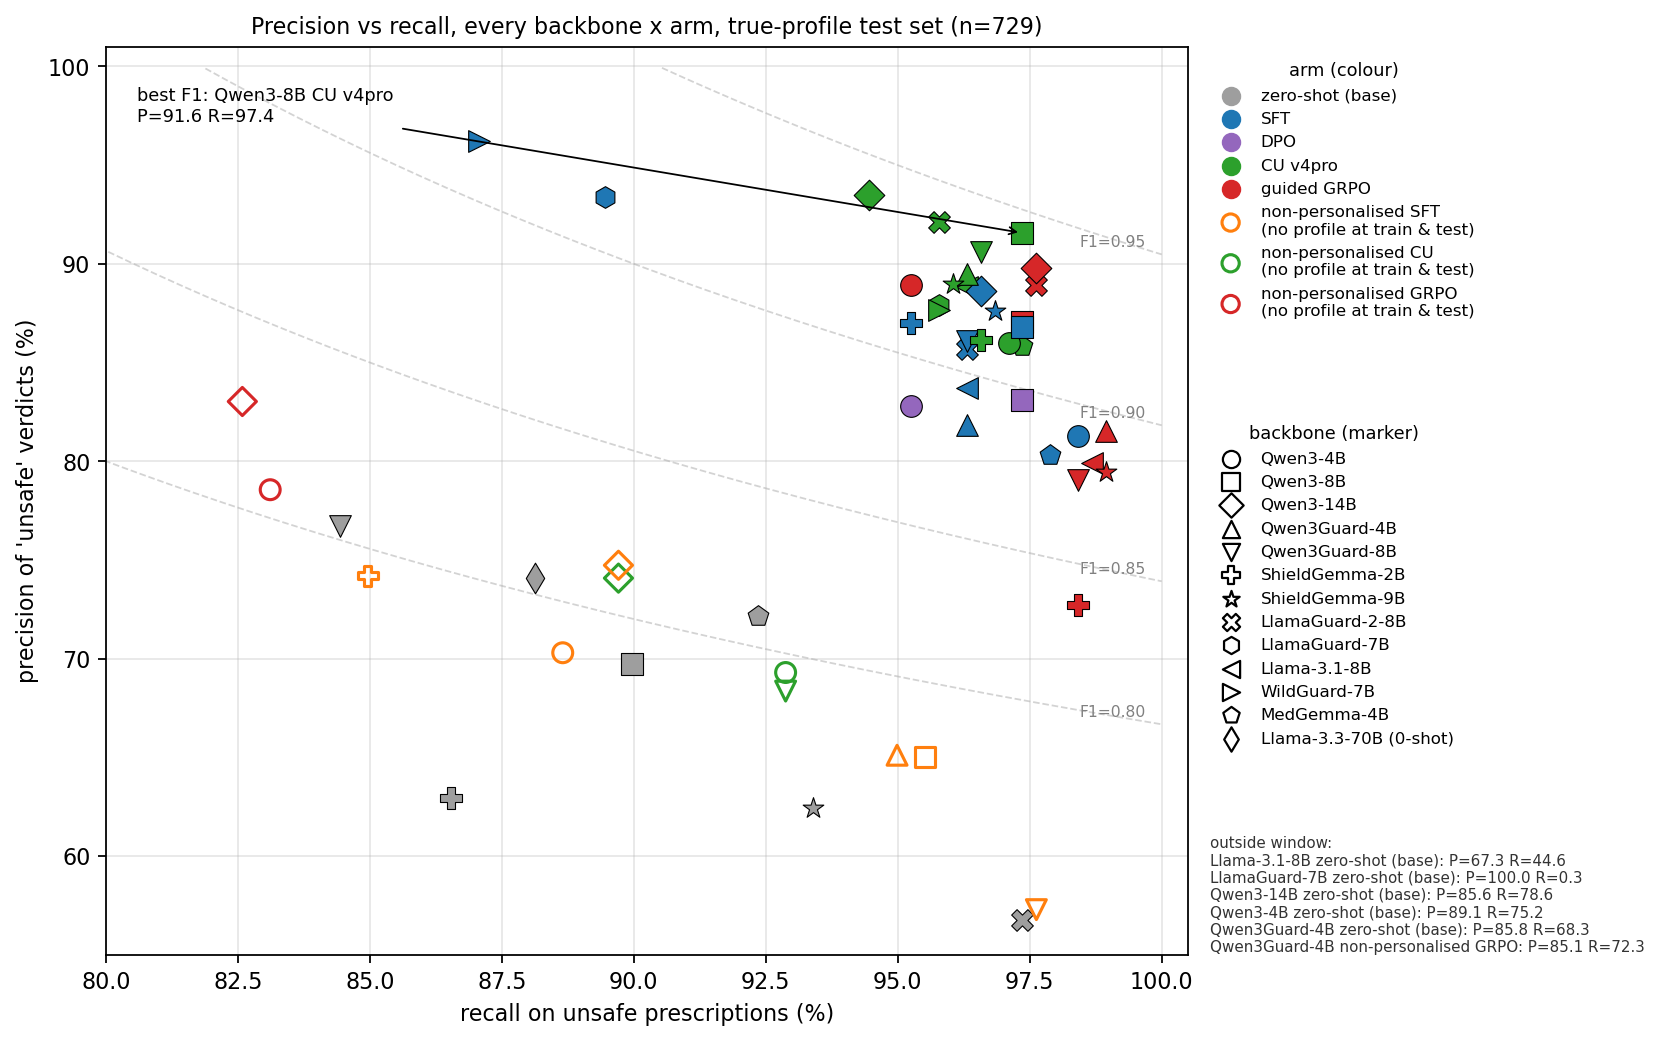
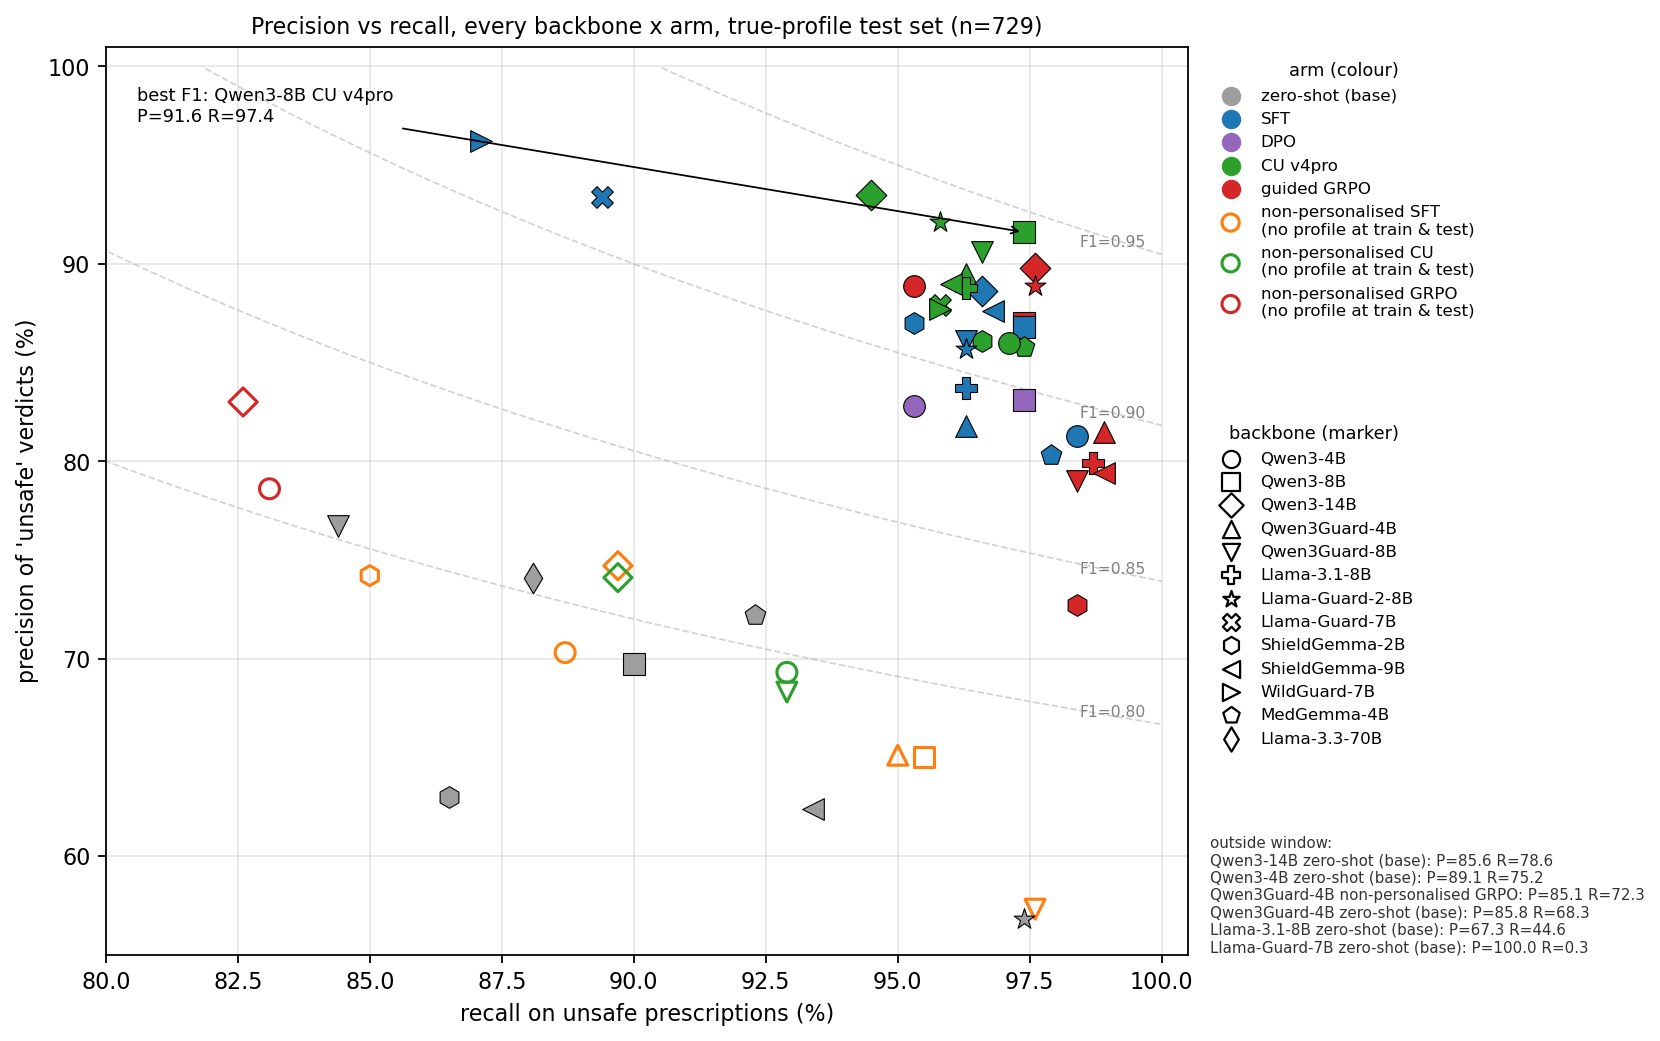
Align the precision-recall figure backbone list and markers with the operating-points figure.

diff --git a/Claude/Ablation/precision_recall_plot.py b/Claude/Ablation/precision_recall_plot.py
@@ -29,21 +29,25 @@ D = os.path.join(ROOT, "Claude/DPO/outputs/partial_miss_audited")
 B = os.path.join(ROOT, "Claude/Base_Models/outputs_blind_v2")
 
 # model key -> (display name, SFT run dir, CU ontop dir, GRPO run prefix, DPO dir, base dir)
+# Order, display names, and markers match fig_operating_points_all.py (Figure 2).
 MODELS = {
-    "qwen3-4b":      ("Qwen3-4B",          "Qwen3-4B-Instruct",  "ontop",              "legacy_v1",                "qwen3-4b", "Qwen3-4B-Instruct"),
-    "qwen3-8b":      ("Qwen3-8B",          "Qwen3-8B-Instruct",  "ontop_8b",           "legacy_v1-qwen3-8b",       "qwen3-8b", None),
-    "qwen3-14b":     ("Qwen3-14B",         "Qwen3-14B-Instruct", "ontop_14b",          "legacy_v1-qwen3-14b",      None,       None),
-    "qwen3guard-4b": ("Qwen3Guard-4B",     "Qwen3Guard-Gen-4B",  "ontop_guard",        "legacy_v1-qwen3guard-4b",  None,       "Qwen3Guard-Gen-4B"),
-    "qwen3guard-8b": ("Qwen3Guard-8B",     "Qwen3Guard-Gen-8B",  "ontop_guard8b",      "legacy_v1-qwen3guard-8b",  None,       None),
-    "shieldgemma-2b": ("ShieldGemma-2B",   "ShieldGemma-2B",     "ontop_shieldgemma2b", "legacy_v1-shieldgemma-2b", None,      None),
-    "shieldgemma-9b": ("ShieldGemma-9B",   "ShieldGemma-9B",     "ontop_shieldgemma9b", "legacy_v1-shieldgemma-9b", None,      None),
-    "llamaguard2-8b": ("LlamaGuard-2-8B",  "Llama-Guard-2-8B",   "ontop_llamaguard2",  "legacy_v1-llamaguard2-8b", None,       None),
-    "llamaguard-7b": ("LlamaGuard-7B",     "LlamaGuard-7b",      "ontop_llamaguard7b", None,                       None,       None),
-    "llama31-8b":    ("Llama-3.1-8B",      "Llama-3.1-8B",       "ontop_llama31",      "legacy_v1-llama31-8b",     None,       None),
-    "wildguard-7b":  ("WildGuard-7B",      "WildGuard-7B",       "ontop_wildguard7b",  "legacy_v1-wildguard-7b",   None,       None),
-    "medgemma-4b":   ("MedGemma-4B",       "MedGemma-4B-it",     "ontop_medgemma4b",   "legacy_v1-medgemma-4b",    None,       None),
-    "llama3.3-70b":  ("Llama-3.3-70B (0-shot)", None,            None,                 None,                       None,       None),
+    "qwen3-4b":       ("Qwen3-4B",          "Qwen3-4B-Instruct",  "ontop",               "legacy_v1",                 "qwen3-4b", "Qwen3-4B-Instruct"),
+    "qwen3-8b":       ("Qwen3-8B",          "Qwen3-8B-Instruct",  "ontop_8b",            "legacy_v1-qwen3-8b",        "qwen3-8b", None),
+    "qwen3-14b":      ("Qwen3-14B",         "Qwen3-14B-Instruct", "ontop_14b",           "legacy_v1-qwen3-14b",       None,       None),
+    "qwen3guard-4b":  ("Qwen3Guard-4B",     "Qwen3Guard-Gen-4B",  "ontop_guard",         "legacy_v1-qwen3guard-4b",   None,       "Qwen3Guard-Gen-4B"),
+    "qwen3guard-8b":  ("Qwen3Guard-8B",     "Qwen3Guard-Gen-8B",  "ontop_guard8b",       "legacy_v1-qwen3guard-8b",   None,       None),
+    "llama31-8b":     ("Llama-3.1-8B",      "Llama-3.1-8B",       "ontop_llama31",       "legacy_v1-llama31-8b",      None,       None),
+    "llamaguard2-8b": ("Llama-Guard-2-8B",  "Llama-Guard-2-8B",   "ontop_llamaguard2",   "legacy_v1-llamaguard2-8b",  None,       None),
+    "llamaguard-7b":  ("Llama-Guard-7B",    "LlamaGuard-7b",      "ontop_llamaguard7b",  None,                        None,       None),
+    "shieldgemma-2b": ("ShieldGemma-2B",    "ShieldGemma-2B",     "ontop_shieldgemma2b", "legacy_v1-shieldgemma-2b",  None,       None),
+    "shieldgemma-9b": ("ShieldGemma-9B",    "ShieldGemma-9B",     "ontop_shieldgemma9b", "legacy_v1-shieldgemma-9b",  None,       None),
+    "wildguard-7b":   ("WildGuard-7B",      "WildGuard-7B",       "ontop_wildguard7b",   "legacy_v1-wildguard-7b",    None,       None),
+    "medgemma-4b":    ("MedGemma-4B",       "MedGemma-4B-it",     "ontop_medgemma4b",    "legacy_v1-medgemma-4b",     None,       None),
+    "llama3.3-70b":   ("Llama-3.3-70B",     None,                 None,                  None,                        None,       None),
 }
+# Same marker string as plot_operating_points_all.MARKERS, keyed by backbone so a
+# missing run cannot shift the shapes of the models that remain.
+MARKERS = dict(zip(MODELS, "osD^vP*Xh<>pd"))
 NOPROFILE_SFT = {"qwen3-4b": "Qwen3-4B-noprofile", "qwen3-8b": "Qwen3-8B-noprofile", "qwen3-14b": "Qwen3-14B-noprofile",
                  "qwen3guard-4b": "Qwen3Guard-4B-noprofile", "qwen3guard-8b": "Qwen3Guard-8B-noprofile",
                  "shieldgemma-2b": "ShieldGemma-2B-noprofile"}
@@ -90,8 +94,10 @@ def find_runs():
             if p:
                 runs[(key, arm)] = p
         for arm in ("base", "sft", "cu", "grpo"):
-            if (key, arm) in T1:
+            if (key, arm) in T1 and os.path.exists(T1[(key, arm)]):
                 runs[(key, arm)] = T1[(key, arm)]
+            elif (key, arm) in T1:
+                print(f"  table-1 file missing, keeping fallback if any: {key}/{arm}")
         if key in NOPROFILE_SFT:
             p = first(f"{S}/{NOPROFILE_SFT[key]}/test_predictions_sft.jsonl")
             if p:
@@ -115,13 +121,40 @@ def pr(gv, pv):
                 acc=(tp + tn) / len(gv), bal_acc=0.5 * (rec + tn / max(fp + tn, 1)))
 
 
-def main():
-    ap = argparse.ArgumentParser()
-    ap.add_argument("--out-dir", default=OUT_DIR)
-    args = ap.parse_args()
-    import matplotlib; matplotlib.use("Agg")
-    import matplotlib.pyplot as plt
+def _norm_label(text):
+    return " ".join(text.replace("\n", " ").split())
 
+
+def rows_from_table(path):
+    """Replay the published precision/recall table so a redraw keeps those points."""
+    import re
+    text = open(path).read().split("## Best")[0]
+    name_to_key = {_norm_label(spec[0]): key for key, spec in MODELS.items()}
+    name_to_key.update({
+        "LlamaGuard-2-8B": "llamaguard2-8b",
+        "LlamaGuard-7B": "llamaguard-7b",
+        "Llama-3.3-70B (0-shot)": "llama3.3-70b",
+    })
+    label_to_arm = {_norm_label(label): arm for arm, label in ARM_LABEL.items()}
+    header = re.search(r"\(n=(\d+)\)", text)
+    n = int(header.group(1)) if header else 729
+    rows = []
+    for m in re.finditer(
+        r"\|\s*\d+\s*\|\s*([^|]+?)\s*\|\s*([^|]+?)\s*\|\s*([0-9.]+)\s*\|\s*([0-9.]+)\s*\|\s*\*\*([0-9.]+)\*\*\s*\|"
+        r"\s*([0-9.]+)\s*\|\s*([0-9.]+)\s*\|\s*([0-9.]+)\s*\|\s*([0-9.]+)\s*\|\s*(\d+)\s*\|\s*(\w+)\s*\|\s*`([^`]+)`\s*\|",
+        text,
+    ):
+        backbone, arm_label, prec, rec, f1, fpr, acc, bal, macro, unparsed, engine, rel = m.groups()
+        key = name_to_key[_norm_label(backbone)]
+        arm = label_to_arm[_norm_label(arm_label)]
+        metrics = dict(precision=float(prec) / 100, recall=float(rec) / 100, f1=float(f1) / 100,
+                       fpr=float(fpr) / 100, acc=float(acc) / 100, bal_acc=float(bal) / 100,
+                       macro_f1=float(macro) / 100, unparsed=int(unparsed), engine=engine)
+        rows.append((key, arm, metrics, rel))
+    return rows, n
+
+
+def score_runs():
     gold = load_gold("true"); n_full = len(gold)
     gv = np.array([g[0] for g in gold]); gc = np.array([[g[1][c] for c in RISK_CATEGORIES] for g in gold])
     import recompute_729 as R
@@ -133,6 +166,8 @@ def main():
     rows = []
     from audit_729 import load_any
     for (key, arm), p in sorted(runs.items()):
+        if not p or not os.path.exists(p):
+            print(f"  skip {key}/{arm}: missing file ({p})"); continue
         pv, pc, parsed, _, n_rows = load_any(p, RISK_CATEGORIES)
         if n_rows < n_full:
             print(f"  skip {key}/{arm}: {n_rows}/{n_full} rows ({p})"); continue
@@ -145,10 +180,30 @@ def main():
         m["macro_f1"] = f1c[present].mean(); m["unparsed"] = int((~parsed[idx]).sum())
         m["engine"] = "vLLM" if p.startswith(A) else "HF"
         rows.append((key, arm, m, os.path.relpath(p, ROOT)))
+    return rows, n
+
+
+def main():
+    ap = argparse.ArgumentParser()
+    ap.add_argument("--out-dir", default=OUT_DIR)
+    ap.add_argument("--from-table", metavar="MD",
+                    help="redraw the figure from a saved precision_recall_table.md instead of rescoring")
+    args = ap.parse_args()
+    import matplotlib; matplotlib.use("Agg")
+    import matplotlib.pyplot as plt
+
+    if args.from_table:
+        rows, n = rows_from_table(args.from_table)
+        print(f"redrawing {len(rows)} published points (n={n}) from {args.from_table}")
+    else:
+        rows, n = score_runs()
 
     # ------------------------------------------------------------ figure
     models = [k for k in MODELS if any(r[0] == k for r in rows)]
-    markers = dict(zip(models, "osD^vP*Xh<>pd8"))
+    missing = [MODELS[k][0] for k in MODELS if k not in models]
+    if missing:
+        print("WARNING: backbones with no plotted point:", ", ".join(missing))
+    print("legend order:", ", ".join(f"{MODELS[k][0]}={MARKERS[k]}" for k in models))
     XLIM, YLIM = (80, 100.5), (55, 101)
     fig, ax = plt.subplots(figsize=(10.5, 6.6))
 
@@ -162,7 +217,7 @@ def main():
                 a.text(100 * rr[ok][-1] - 0.3, 100 * pp[ok][-1] + 0.4, f"F1={f:.2f}", fontsize=7, color="grey", ha="right")
         for key, arm, m, _ in pts:
             hollow = arm in NP_ARMS
-            a.scatter(100 * m["recall"], 100 * m["precision"], s=size * (95 if not hollow else 80), marker=markers[key],
+            a.scatter(100 * m["recall"], 100 * m["precision"], s=size * (95 if not hollow else 80), marker=MARKERS[key],
                       facecolor="none" if hollow else ARM_COL[arm], edgecolor=ARM_COL[arm] if hollow else "k",
                       linewidth=1.4 if hollow else 0.5, zorder=3)
 
@@ -184,7 +239,7 @@ def main():
             h1.append(ax.scatter([], [], facecolor="none", edgecolor=ARM_COL[a], linewidth=1.4, s=60, label=ARM_LABEL[a]))
     leg1 = ax.legend(handles=h1, fontsize=7.5, loc="upper left", bbox_to_anchor=(1.01, 1.0), title="arm (colour)", title_fontsize=8, frameon=False)
     ax.add_artist(leg1)
-    h2 = [ax.scatter([], [], marker=markers[k], color="w", edgecolor="k", s=60, label=MODELS[k][0]) for k in models]
+    h2 = [ax.scatter([], [], marker=MARKERS[k], color="w", edgecolor="k", s=60, label=MODELS[k][0]) for k in models]
     ax.legend(handles=h2, fontsize=7.5, loc="upper left", bbox_to_anchor=(1.01, 0.60), title="backbone (marker)", title_fontsize=8, frameon=False)
     ax.set_xlabel("recall on unsafe prescriptions (%)"); ax.set_ylabel("precision of 'unsafe' verdicts (%)")
     ax.set_xlim(*XLIM); ax.set_ylim(*YLIM); ax.grid(alpha=0.3)

diff --git a/Claude/Ablation/report/precision_recall_table.md b/Claude/Ablation/report/precision_recall_table.md
@@ -4,10 +4,10 @@
 |---|---|---|---|---|---|---|---|---|---|---|---|---|
 | 1 | Qwen3-8B | CU v4pro | 91.6 | 97.4 | **94.4** | 9.7 | 94.0 | 93.8 | 69.8 | 0 | HF | `context_unrolling/outputs/ontop_8b/sft+1ep_unrolled_v4pro/test_predictions.jsonl` |
 | 2 | Qwen3-14B | CU v4pro | 93.5 | 94.5 | **94.0** | 7.1 | 93.7 | 93.7 | 72.0 | 7 | HF | `context_unrolling/outputs/ontop_14b/sft+1ep_unrolled_v4pro/test_predictions.jsonl` |
-| 3 | LlamaGuard-2-8B | CU v4pro | 92.1 | 95.8 | **93.9** | 8.9 | 93.6 | 93.5 | 68.3 | 0 | HF | `context_unrolling/outputs/ontop_llamaguard2/sft+1ep_unrolled_v4pro/test_predictions.jsonl` |
+| 3 | Llama-Guard-2-8B | CU v4pro | 92.1 | 95.8 | **93.9** | 8.9 | 93.6 | 93.5 | 68.3 | 0 | HF | `context_unrolling/outputs/ontop_llamaguard2/sft+1ep_unrolled_v4pro/test_predictions.jsonl` |
 | 4 | Qwen3-14B | guided GRPO | 89.8 | 97.6 | **93.6** | 12.0 | 93.0 | 92.8 | 69.0 | 0 | HF | `Claude/GRPO/outputs/legacy_v1-qwen3-14b/grpo-guided-v2/final/eval/test_predictions.jsonl` |
 | 5 | Qwen3Guard-8B | CU v4pro | 90.6 | 96.6 | **93.5** | 10.9 | 93.0 | 92.9 | 69.4 | 0 | HF | `context_unrolling/outputs/ontop_guard8b/sft+1ep_unrolled_v4pro/test_predictions.jsonl` |
-| 6 | LlamaGuard-2-8B | guided GRPO | 88.9 | 97.6 | **93.1** | 13.1 | 92.5 | 92.2 | 68.4 | 0 | HF | `Claude/GRPO/outputs/legacy_v1-llamaguard2-8b/grpo-guided-v2/final/eval/test_predictions.jsonl` |
+| 6 | Llama-Guard-2-8B | guided GRPO | 88.9 | 97.6 | **93.1** | 13.1 | 92.5 | 92.2 | 68.4 | 0 | HF | `Claude/GRPO/outputs/legacy_v1-llamaguard2-8b/grpo-guided-v2/final/eval/test_predictions.jsonl` |
 | 7 | Qwen3Guard-4B | CU v4pro | 89.5 | 96.3 | **92.8** | 12.3 | 92.2 | 92.0 | 70.0 | 0 | HF | `context_unrolling/outputs/ontop_guard/sft+1ep_unrolled_v4pro/test_predictions.jsonl` |
 | 8 | Qwen3-14B | SFT | 88.6 | 96.6 | **92.4** | 13.4 | 91.8 | 91.6 | 67.5 | 0 | HF | `Claude/SFT/new_outputs/Qwen3-14B-Instruct/test_predictions_w_schema.jsonl` |
 | 9 | Llama-3.1-8B | CU v4pro | 88.8 | 96.3 | **92.4** | 13.1 | 91.8 | 91.6 | 64.7 | 0 | HF | `context_unrolling/outputs/ontop_llama31/sft+1ep_unrolled_v4pro/test_predictions.jsonl` |
@@ -16,16 +16,16 @@
 | 12 | Qwen3-4B | guided GRPO | 88.9 | 95.3 | **92.0** | 12.9 | 91.4 | 91.2 | 69.1 | 3 | HF | `Claude/GRPO/outputs/legacy_v1/grpo-guided-v2/final/eval/test_predictions.jsonl` |
 | 13 | Qwen3-8B | guided GRPO | 87.0 | 97.4 | **91.9** | 15.7 | 91.1 | 90.8 | 68.4 | 0 | HF | `Claude/GRPO/outputs/legacy_v1-qwen3-8b/grpo-guided-v2/final/eval/test_predictions.jsonl` |
 | 14 | Qwen3-8B | SFT | 86.8 | 97.4 | **91.8** | 16.0 | 90.9 | 90.7 | 67.6 | 0 | HF | `Claude/SFT/new_outputs/Qwen3-8B-Instruct/test_predictions_w_schema.jsonl` |
-| 15 | LlamaGuard-7B | CU v4pro | 87.9 | 95.8 | **91.7** | 14.3 | 90.9 | 90.7 | 66.4 | 1 | HF | `context_unrolling/outputs/ontop_llamaguard7b/sft+1ep_unrolled_v4pro/test_predictions.jsonl` |
+| 15 | Llama-Guard-7B | CU v4pro | 87.9 | 95.8 | **91.7** | 14.3 | 90.9 | 90.7 | 66.4 | 1 | HF | `context_unrolling/outputs/ontop_llamaguard7b/sft+1ep_unrolled_v4pro/test_predictions.jsonl` |
 | 16 | WildGuard-7B | CU v4pro | 87.7 | 95.8 | **91.6** | 14.6 | 90.8 | 90.6 | 65.9 | 0 | HF | `context_unrolling/outputs/ontop_wildguard7b/sft+1ep_unrolled_v4pro/test_predictions.jsonl` |
 | 17 | WildGuard-7B | SFT | 96.2 | 87.1 | **91.4** | 3.7 | 91.5 | 91.7 | 71.6 | 0 | HF | `Claude/SFT/new_outputs/WildGuard-7B/test_predictions_sft.jsonl` |
-| 18 | LlamaGuard-7B | SFT | 93.4 | 89.4 | **91.4** | 6.9 | 91.2 | 91.3 | 64.5 | 0 | HF | `context_unrolling/outputs/ontop_llamaguard7b/sft_baseline/test_predictions.jsonl` |
+| 18 | Llama-Guard-7B | SFT | 93.4 | 89.4 | **91.4** | 6.9 | 91.2 | 91.3 | 64.5 | 0 | HF | `context_unrolling/outputs/ontop_llamaguard7b/sft_baseline/test_predictions.jsonl` |
 | 19 | MedGemma-4B | CU v4pro | 85.8 | 97.4 | **91.2** | 17.4 | 90.3 | 90.0 | 69.2 | 0 | HF | `context_unrolling/outputs/ontop_medgemma4b/sft+1ep_unrolled_v4pro/test_predictions.jsonl` |
 | 20 | Qwen3-4B | CU v4pro | 86.0 | 97.1 | **91.2** | 17.1 | 90.3 | 90.0 | 70.0 | 0 | HF | `context_unrolling/outputs/ontop/sft+1ep_unrolled_v4pro/test_predictions.jsonl` |
 | 21 | ShieldGemma-2B | CU v4pro | 86.1 | 96.6 | **91.0** | 16.9 | 90.1 | 89.9 | 66.7 | 0 | HF | `context_unrolling/outputs/ontop_shieldgemma2b/sft+1ep_unrolled_v4pro/test_predictions.jsonl` |
 | 22 | ShieldGemma-2B | SFT | 87.0 | 95.3 | **90.9** | 15.4 | 90.1 | 89.9 | 64.7 | 0 | HF | `context_unrolling/outputs/ontop_shieldgemma2b/sft_baseline/test_predictions.jsonl` |
 | 23 | Qwen3Guard-8B | SFT | 86.1 | 96.3 | **90.9** | 16.9 | 90.0 | 89.7 | 65.9 | 0 | HF | `context_unrolling/outputs/ontop_guard8b/sft_baseline/test_predictions.jsonl` |
-| 24 | LlamaGuard-2-8B | SFT | 85.7 | 96.3 | **90.7** | 17.4 | 89.7 | 89.4 | 67.4 | 0 | HF | `Claude/SFT/new_outputs/Llama-Guard-2-8B/test_predictions_sft.jsonl` |
+| 24 | Llama-Guard-2-8B | SFT | 85.7 | 96.3 | **90.7** | 17.4 | 89.7 | 89.4 | 67.4 | 0 | HF | `Claude/SFT/new_outputs/Llama-Guard-2-8B/test_predictions_sft.jsonl` |
 | 25 | Qwen3-8B | DPO | 83.1 | 97.4 | **89.7** | 21.4 | 88.3 | 88.0 | 60.3 | 0 | HF | `Claude/DPO/outputs/partial_miss_audited/qwen3-8b/test_predictions_dpo.jsonl` |
 | 26 | Llama-3.1-8B | SFT | 83.7 | 96.3 | **89.6** | 20.3 | 88.3 | 88.0 | 64.7 | 0 | HF | `Claude/SFT/new_outputs/Llama-3.1-8B/test_predictions_sft.jsonl` |
 | 27 | Qwen3Guard-4B | guided GRPO | 81.5 | 98.9 | **89.4** | 24.3 | 87.8 | 87.3 | 67.4 | 0 | HF | `Claude/GRPO/outputs/legacy_v1-qwen3guard-4b/grpo-guided-v2/final/eval/test_predictions.jsonl` |
@@ -48,7 +48,7 @@
 | 41 | MedGemma-4B | zero-shot (base) | 72.2 | 92.3 | **81.0** | 38.6 | 77.5 | 76.9 | 51.6 | 0 | HF | `Claude/External_Eval/medgemma/outputs/synthetic/zeroshot_rp/test_predictions.jsonl` |
 | 42 | Qwen3-4B | non-personalised GRPO
 (no profile at train & test) | 78.6 | 83.1 | **80.8** | 24.6 | 79.4 | 79.3 | 48.3 | 8 | HF | `Claude/GRPO/outputs/legacy_v1-noprofile/grpo-guided-v2/final/eval/test_predictions.jsonl` |
-| 43 | Llama-3.3-70B (0-shot) | zero-shot (base) | 74.1 | 88.1 | **80.5** | 33.4 | 77.8 | 77.3 | 54.1 | 0 | vLLM | `Claude/Ablation/outputs/llama3.3-70b/base/true/test_predictions.jsonl` |
+| 43 | Llama-3.3-70B | zero-shot (base) | 74.1 | 88.1 | **80.5** | 33.4 | 77.8 | 77.3 | 54.1 | 0 | vLLM | `Claude/Ablation/outputs/llama3.3-70b/base/true/test_predictions.jsonl` |
 | 44 | Qwen3Guard-8B | zero-shot (base) | 76.7 | 84.4 | **80.4** | 27.7 | 78.6 | 78.4 | 41.2 | 24 | vLLM | `Claude/Ablation/outputs/qwen3guard-8b/base/true/test_predictions.jsonl` |
 | 45 | Qwen3-4B | non-personalised CU
 (no profile at train & test) | 69.3 | 92.9 | **79.4** | 44.6 | 74.9 | 74.2 | 46.3 | 0 | HF | `context_unrolling/outputs/ontop_noprofile/sft+1ep_unrolled_v4pro/test_predictions.jsonl` |
@@ -70,9 +70,9 @@
 | 55 | ShieldGemma-2B | zero-shot (base) | 63.0 | 86.5 | **72.9** | 55.1 | 66.5 | 65.7 | 26.1 | 19 | vLLM | `Claude/Ablation/outputs/shieldgemma-2b/base/true/test_predictions.jsonl` |
 | 56 | Qwen3Guard-8B | non-personalised SFT
 (no profile at train & test) | 57.3 | 97.6 | **72.2** | 78.9 | 60.9 | 59.4 | 44.7 | 0 | HF | `Claude/SFT/new_outputs/Qwen3Guard-8B-noprofile/test_predictions_sft.jsonl` |
-| 57 | LlamaGuard-2-8B | zero-shot (base) | 56.8 | 97.4 | **71.7** | 80.3 | 60.1 | 58.5 | 0.0 | 0 | vLLM | `Claude/Ablation/outputs/llamaguard2-8b/base/true/test_predictions.jsonl` |
+| 57 | Llama-Guard-2-8B | zero-shot (base) | 56.8 | 97.4 | **71.7** | 80.3 | 60.1 | 58.5 | 0.0 | 0 | vLLM | `Claude/Ablation/outputs/llamaguard2-8b/base/true/test_predictions.jsonl` |
 | 58 | Llama-3.1-8B | zero-shot (base) | 67.3 | 44.6 | **53.7** | 23.4 | 59.9 | 60.6 | 22.1 | 293 | vLLM | `Claude/Ablation/outputs/llama31-8b/base/true/test_predictions.jsonl` |
-| 59 | LlamaGuard-7B | zero-shot (base) | 100.0 | 0.3 | **0.5** | 0.0 | 48.1 | 50.1 | 0.0 | 0 | vLLM | `Claude/Ablation/outputs/llamaguard-7b/base/true/test_predictions.jsonl` |
+| 59 | Llama-Guard-7B | zero-shot (base) | 100.0 | 0.3 | **0.5** | 0.0 | 48.1 | 50.1 | 0.0 | 0 | vLLM | `Claude/Ablation/outputs/llamaguard-7b/base/true/test_predictions.jsonl` |
 
 ## Best arm per backbone (by F1)
 
@@ -83,11 +83,11 @@
 | Qwen3-14B | CU v4pro | 94.0 | 93.5 | 94.5 | guided GRPO (93.6) |
 | Qwen3Guard-4B | CU v4pro | 92.8 | 89.5 | 96.3 | guided GRPO (89.4) |
 | Qwen3Guard-8B | CU v4pro | 93.5 | 90.6 | 96.6 | SFT (90.9) |
+| Llama-3.1-8B | CU v4pro | 92.4 | 88.8 | 96.3 | SFT (89.6) |
+| Llama-Guard-2-8B | CU v4pro | 93.9 | 92.1 | 95.8 | guided GRPO (93.1) |
+| Llama-Guard-7B | CU v4pro | 91.7 | 87.9 | 95.8 | SFT (91.4) |
 | ShieldGemma-2B | CU v4pro | 91.0 | 86.1 | 96.6 | SFT (90.9) |
 | ShieldGemma-9B | CU v4pro | 92.4 | 89.0 | 96.0 | SFT (92.0) |
-| LlamaGuard-2-8B | CU v4pro | 93.9 | 92.1 | 95.8 | guided GRPO (93.1) |
-| LlamaGuard-7B | CU v4pro | 91.7 | 87.9 | 95.8 | SFT (91.4) |
-| Llama-3.1-8B | CU v4pro | 92.4 | 88.8 | 96.3 | SFT (89.6) |
 | WildGuard-7B | CU v4pro | 91.6 | 87.7 | 95.8 | SFT (91.4) |
 | MedGemma-4B | CU v4pro | 91.2 | 85.8 | 97.4 | SFT (88.2) |
-| Llama-3.3-70B (0-shot) | zero-shot (base) | 80.5 | 74.1 | 88.1 | — |
+| Llama-3.3-70B | zero-shot (base) | 80.5 | 74.1 | 88.1 | — |
